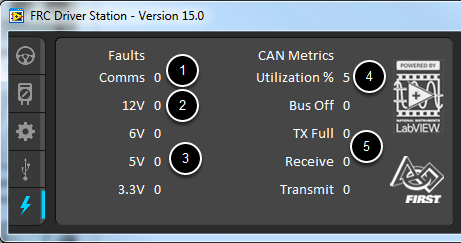
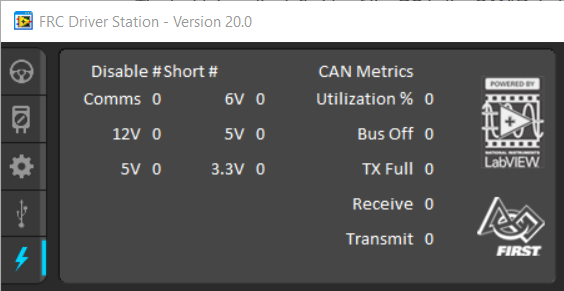
Port the rest of the Driver Station doc
Fixes #537

diff --git a/source/docs/software/driverstation/driver-station.rst b/source/docs/software/driverstation/driver-station.rst
@@ -41,7 +41,7 @@ Operation Tab
 The Operations Tab is used to control the mode of the robot and provide additional key status indicators while the robot is running.
 
 1. Robot Mode - This section controls the Robot Mode. Practice Mode causes the robot to cycle through the same transitions as an FRC match after the Enable button is pressed (timing for practice mode can be found on the setup tab).
-2. Enable/Disable - These controls enable and disable the robot. You can also use the key combination ``[]\`` (the 3 keys above the enter key on most keyboards) to Enable the robot, and the ``Enter`` key to Disable the robot. The Spacebar will Emergency Stop the Robot
+2. Enable/Disable - These controls enable and disable the robot. See also `Driver Station Key Shortcuts`_
 3. Elapsed Time - Indicates the amount of time the robot has been enabled
 4. PC Battery - Indicates current state of DS PC battery and whether the PC is plugged in
 5. PC CPU% - Indicates the CPU Utilization of the DS PC
@@ -121,3 +121,60 @@ Example: The image above shows 4 devices:
 - A Locked, but disconnected "MadCatz GamePad (Controller)" which is a MadCatz Xbox 360 Controller
 
 In this example, unplugging the Logitech Extreme 3D joystick will result in the F310 Gamepad moving up to slot 1. Plugging in the MadCatz Gamepad (even if the devices in Slots 1 and 2 are removed and those slots are empty) will result in it occupying Slot 3.
+
+CAN\\Power Tab
+--------------
+
+.. image:: images/driver-station/ds-can-power-tab.png
+
+
+
+The last tab on the left side of the DS is the CAN\Robot Power Tab. This tab contains information about the power status of the roboRIO and the status of the CAN bus:
+
+1. Comms Faults - This indicates the number of Comms faults that have occurred since the DS has been connected
+2. 12V Faults - This indicates the number of input power faults (Brownouts) that have occurred since the DS has been connected
+3. 6V/5V/3.3V Faults - This indicates the number of faults (typically cause by short circuits) that have occurred on the User Voltage Rails since the DS has been connected
+4. CAN Bus Utilization - This indicates the percentage utilization of the CAN bus
+5. CAN faults - These indicate the counts of each of the 4 types of CAN faults since the DS has been connected
+
+If a fault is detected, the indicator for this tab (shown in blue in the image above) will turn red.
+
+
+Messages Tab
+------------
+
+.. image:: images/driver-station/ds-messages-tab.png
+
+The Messages tab displays diagnostic messages from the DS, WPILib, User Code, and/or the roboRIO. The messages are filtered by severity. By default, only Errors are displayed.
+
+To access settings for the Messages tab, click the Gear icon. This will display a menu that will allow you to select the detail level (Errors, Errors+Warnings or Errors+Warnings+Prints), Clear the box, launch a larger Console window for viewing messages, or launch the DS Log Viewer.
+
+Charts Tab
+----------
+
+.. image:: images/driver-station/ds-charts-tab.png
+
+The Charts tab plots and displays advanced indicators of robot status to help teams diagnose robot issues:
+
+1. The top graph charts trip time in milliseconds in green (against the axis on the right) and lost packets per second in orange (against the axis on the left)
+2. The bottom graph plots battery voltage in yellow (against the axis on the left), roboRIO CPU in red (against the axis on the right), DS Requested mode as a continuous line on the bottom of the chart and robot mode as a discontinuous line above it.
+3. This key shows the colors used for the DS Requested and Robot Reported modes in the bottom chart.
+4. Chart scale - These controls change the time scale of the DS Charts
+5. This button launches the :doc:`DS Log File Viewer <driver-station-log-viewer>`
+
+The DS Requested mode is the mode that the Driver Station is commanding the robot to be in. The Robot Reported mode is what code is actually running based on reporting methods contained in the coding frameworks for each language.
+
+Both Tab
+--------
+
+The last tab on the right side is the Both tab which displays Messages and Charts side by side
+
+Driver Station Key Shortcuts
+----------------------------
+
+  * F1 - Force a Joystick refresh.
+  * '[' + ']' + ' \\ ' - Enable the robot (the 3 keys above Enter on most keyboards)
+  * Enter - Disable the Robot
+  * Space - Emergency Stop the robot. After an emergency stop is triggered the roboRIO will need to be rebooted before the robot can be enabled again.
+
+.. Note:: Space bar will E-Stop the robot regardless of if the Driver Station window has focus or not
